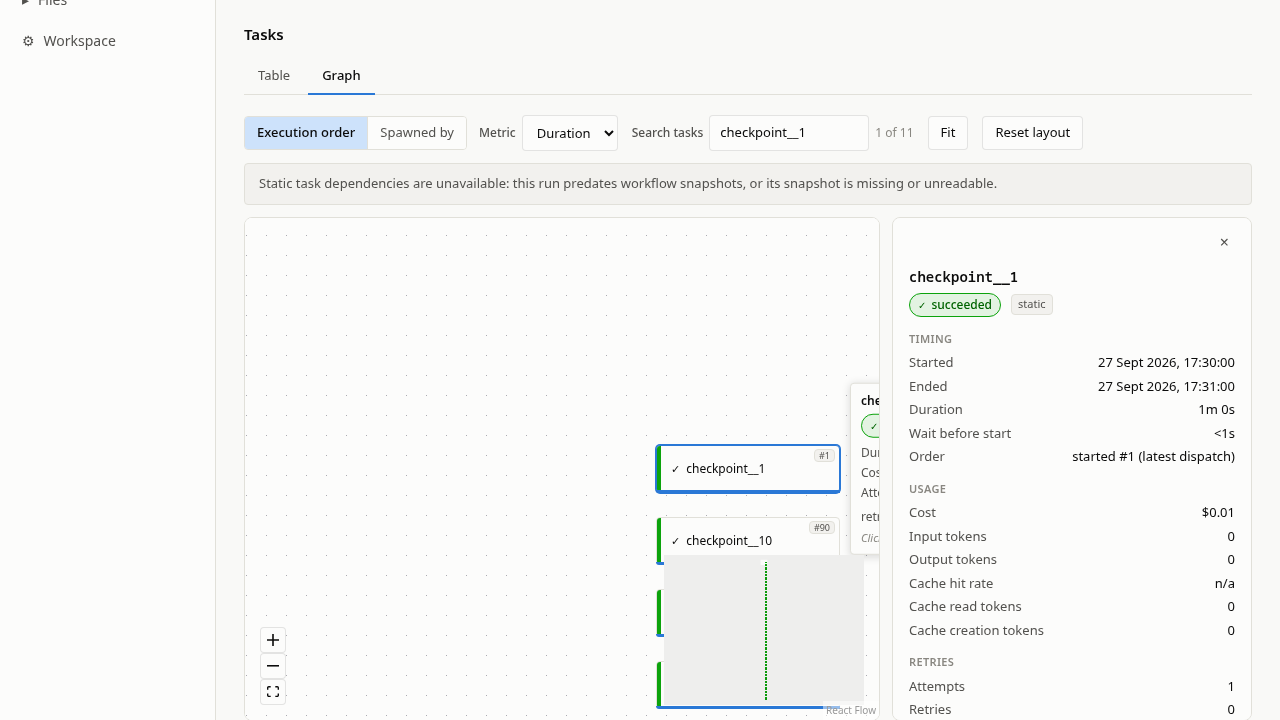
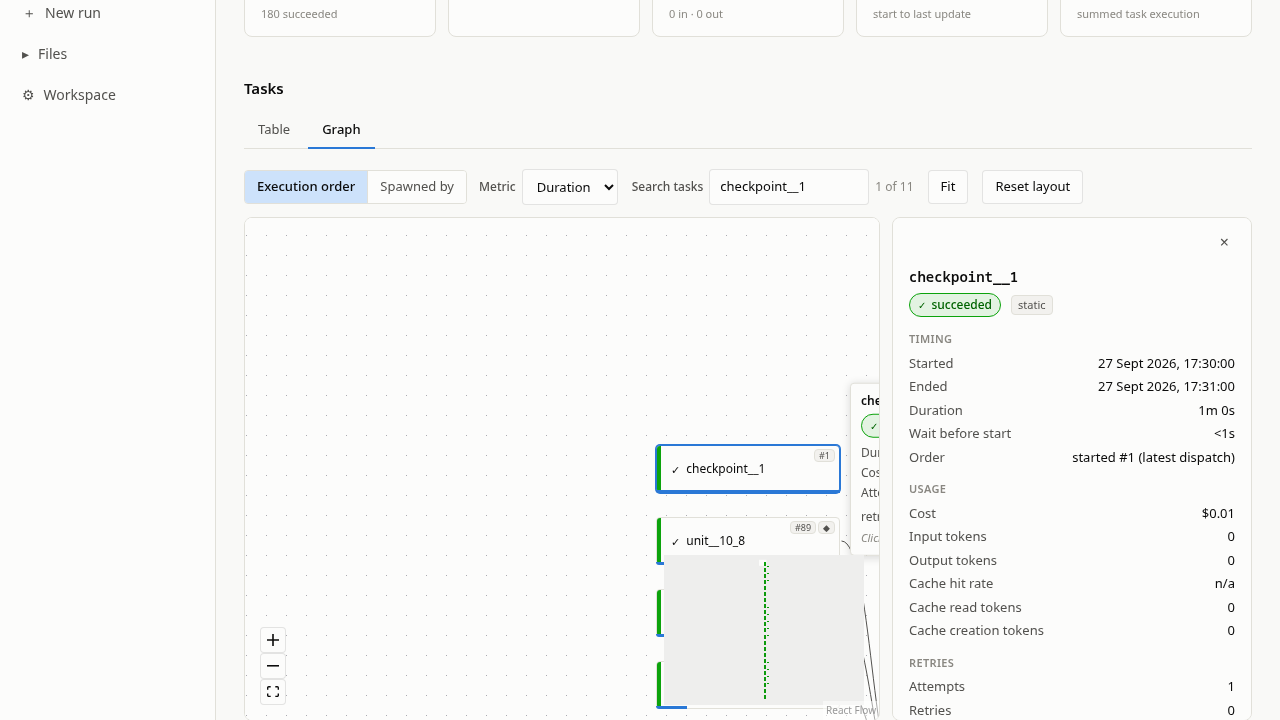
T-F1caAt: Fix spec_sha256 truncation bug + add HTTP-level AC-1 assertion
CRITICAL FIX: spec_sha256 was truncated to 12 chars in fixture, but production
code expects full 64-char digest. This caused snapshots to be rejected by
load_workflow_snapshot_at validation gate (pattern: ^[0-9a-f]{64}$), resulting
in degraded graphs with 'Static task dependencies unavailable' banner.

Changes:
1. graph_fixtures.py: Remove truncation when storing spec_sha256 in SpecSession
   and WorkflowSnapshot. Only truncate to 12 chars for the filename.
2. test_e2e_graph.py: Add real HTTP-level assertions to AC-1 that test the
   actual /api/runs/{id}/graph endpoint (not just direct build_run_graph call).
   Verify source='snapshot' (readable), and spawn/dependency edges exist.

All 4 E2E tests PASS (7.52s). Screenshots updated - banner should now be gone
since snapshot is properly readable.

Claude-Session: https://claude.ai/code/session_01UktXnupwYiMKsckin5247V

diff --git a/tests/ui/test_e2e_graph.py b/tests/ui/test_e2e_graph.py
@@ -371,6 +371,36 @@ class TestGraphBrowserSmoke:
                     proc.kill()
                     pytest.fail("server did not start")
 
+                # AC-1 HTTP-level assertion: GET /api/runs/{id}/graph and verify snapshot is readable
+                graph_response = httpx.get(f"{base_url}/api/runs/synth-run-001/graph", timeout=10.0)
+                assert graph_response.status_code == 200, f"graph endpoint returned {graph_response.status_code}"
+                graph_data = graph_response.json()
+
+                # Verify snapshot is readable (not degraded)
+                assert graph_data.get("source") == "snapshot", (
+                    f"Expected source='snapshot' (readable), got source='{graph_data.get('source')}' "
+                    "(likely means snapshot sha validation failed)"
+                )
+
+                # Verify spawn and dependency edges exist in the graph response
+                dependency_edges = graph_data.get("dependency_edges", [])
+                spawn_edges = graph_data.get("spawn_edges", [])
+
+                # Verify snapshot is truly readable (produces real edges, not empty)
+                assert len(spawn_edges) > 0, (
+                    f"No spawn edges in readable snapshot. Dependency: {len(dependency_edges)}, "
+                    f"Spawn: {len(spawn_edges)}. This indicates snapshot.spec_sha256 is still invalid."
+                )
+
+                # Verify dependency edges also exist (since fixture wires dependencies)
+                assert len(dependency_edges) > 0, (
+                    f"No dependency edges in fixture graph. Expected dependencies between checkpoints. "
+                    f"Spawn: {len(spawn_edges)}, Dependency: {len(dependency_edges)}"
+                )
+
+                # Verify they differ (U-4 requirement)
+                assert spawn_edges != dependency_edges, "Spawn and dependency edge sets should differ"
+
                 async with async_playwright() as p:
                     browser = await p.chromium.launch(channel="chrome")
                     page = await browser.new_page()

diff --git a/tests/ui/graph_fixtures.py b/tests/ui/graph_fixtures.py
@@ -138,9 +138,10 @@ def write_synthetic_run(root: Path, waves: int, fanout: int, *, clock: datetime)
 
     # Write the spec snapshot
     spec_json = json.dumps(minimal_workflow_spec, sort_keys=True)
-    spec_sha = hashlib.sha256(spec_json.encode()).hexdigest()[:12]
+    spec_sha = hashlib.sha256(spec_json.encode()).hexdigest()  # Full 64-char digest
 
-    snapshot_path = run_dir / f"workflow.snapshot.{spec_sha}.json"
+    # Filename uses only 12-char truncation (internal to the path layer)
+    snapshot_path = run_dir / f"workflow.snapshot.{spec_sha[:12]}.json"
     snapshot_data = {
         "schema_version": 1,
         "run_id": run_id,
